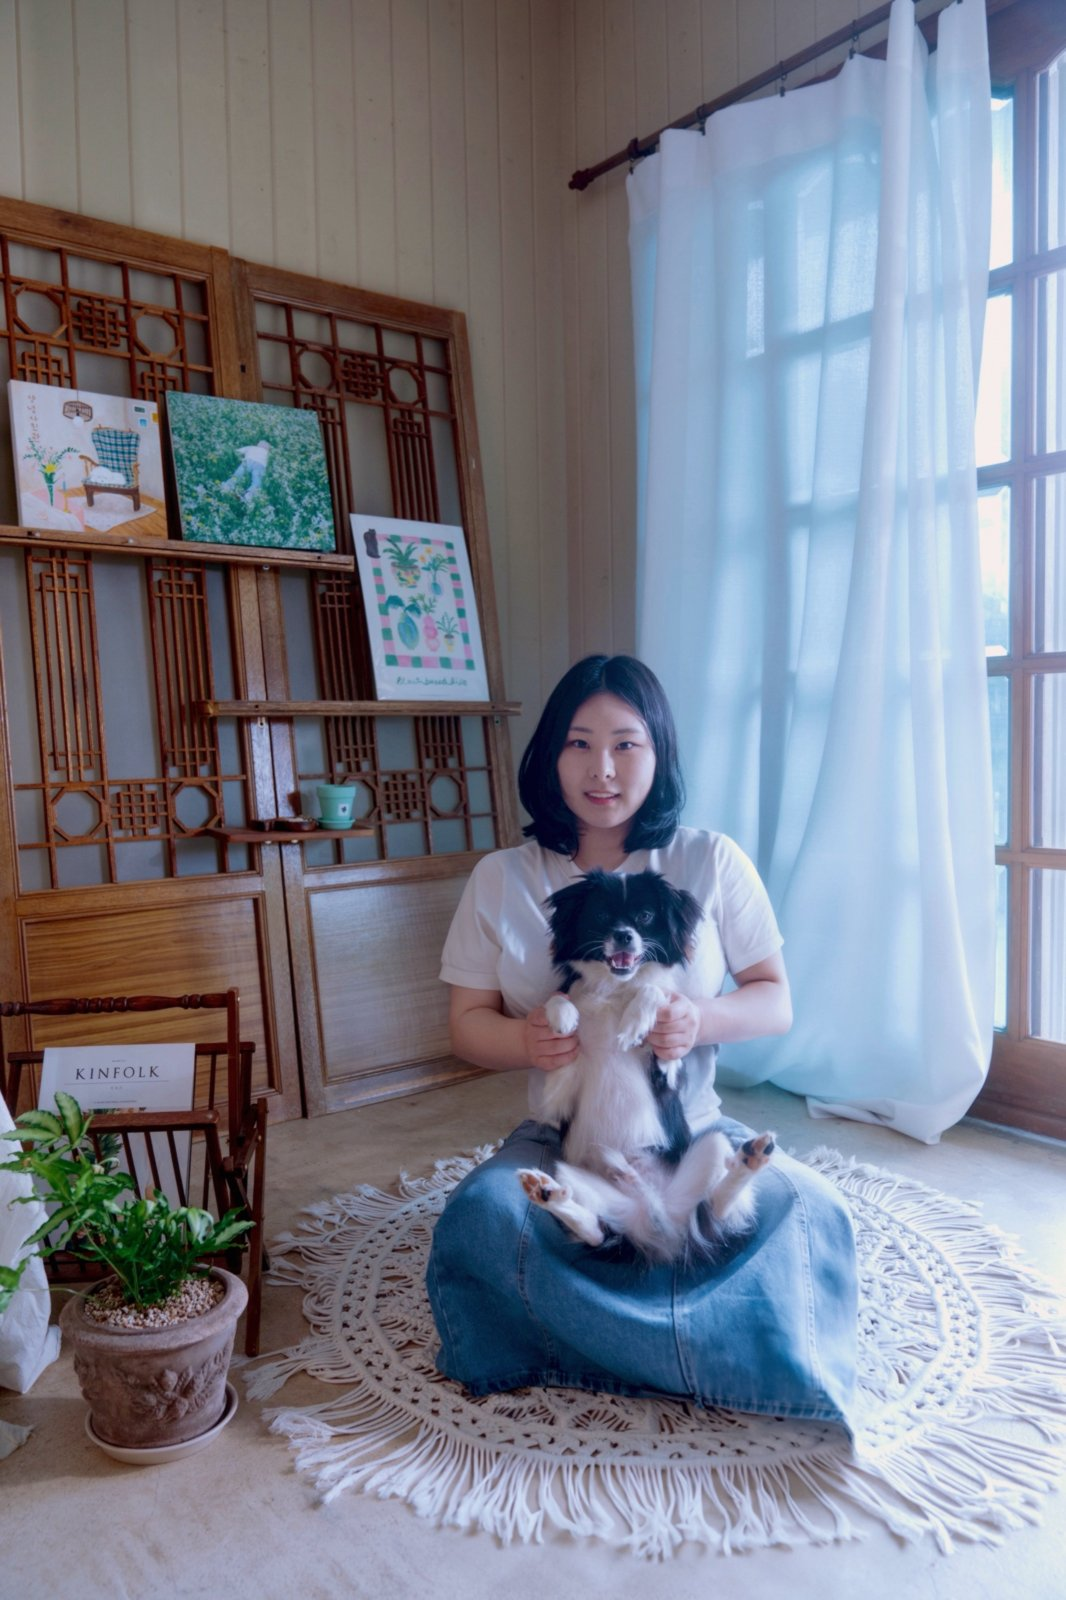
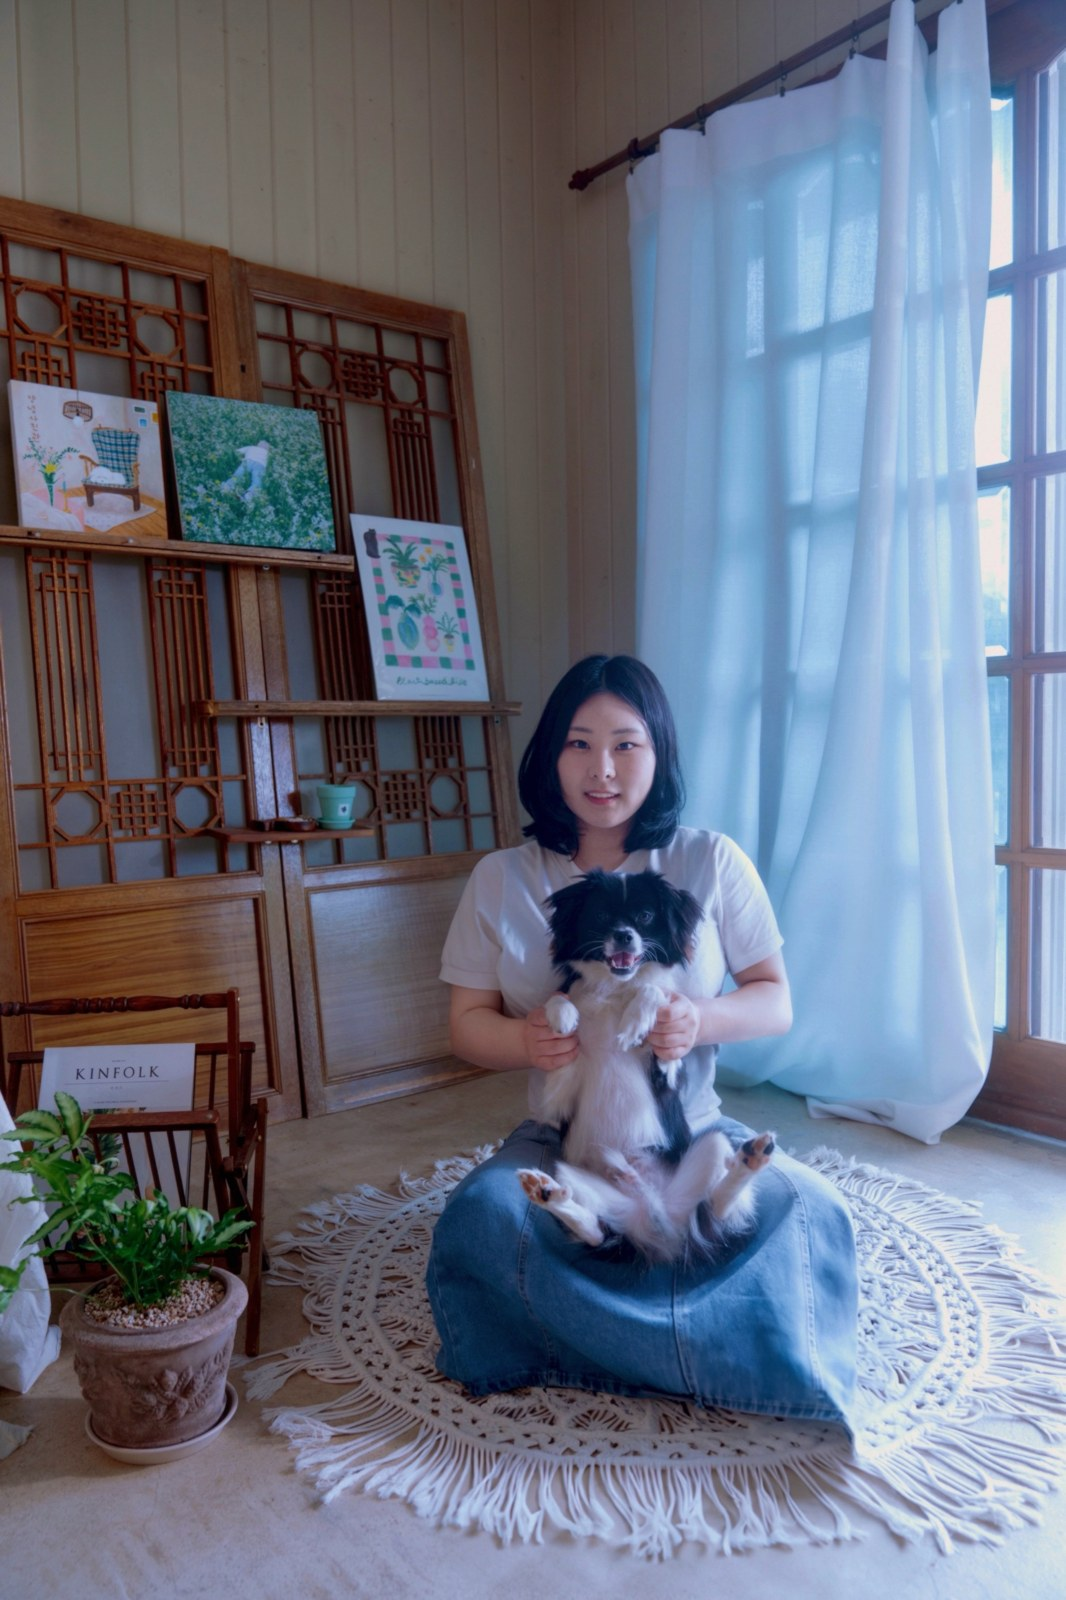
프로필 사진 보정본으로 교체
Claude-Session: https://claude.ai/code/session_01F7tKYgLVpzjPdrtESAum4i

diff --git a/about.html b/about.html
@@ -21,7 +21,7 @@
 <div class="dhead"><p class="kick">ABOUT</p><h1>소개</h1></div>
 <section class="sec"><div class="dbody" style="padding:0">
   <div class="prose"><p class="about-lead">새로운 감각을 만드는 일에 끌립니다.</p><p>어릴 때는 없던 식감을 만들어 보는 요리가 좋았고, 그다음엔 가상현실에서 감각을 설계하는 일을 하고 싶었습니다. 가상 공간을 제대로 만들려고 제도와 CAD를 배웠고, 옷과 머리카락이 어떻게 움직이는지 궁금해서 의류학과 색채학을 공부했고, 감각을 더 이해하려고 뇌과학 수업도 들었습니다.</p><p>그 관심이 컴퓨터그래픽스와 물리 시뮬레이션으로 이어졌습니다. 감각을 물리적으로 계산할 수 있다는 게 좋았습니다. 지금은 영상 속 움직임을 3D로 읽어내고 다시 만들어내는 비전 연구까지 넓히고 있습니다.</p><p>앞으로는 공연과 전시, 문화유산처럼 사람들이 직접 보고 반응하는 콘텐츠를 가능하게 하는 기술을 만들고 싶습니다. 무대 위의 사람이 아니라, 그 무대를 가능하게 하는 기술을 만드는 사람이 되고 싶습니다.</p><p style="color:var(--mute);font-size:15px">초등학생 때 교육청 영재원에서 LED 큐브와 비접촉 센서 피아노를 만들었고, 중학생 때는 지구과학 영재원에서 남원 지역 암석을 분석한 연구를 1저자로 대한지질학회에서 발표해 상을 받았습니다. 무언가를 직접 만들어 보는 버릇은 그때부터였습니다.</p></div>
-  <div><figure class="profile" data-profile><img src="images/profile.jpg?v=942330d9" alt="김주란 프로필 사진" onerror="this.outerHTML='<div class=&quot;ph&quot;><span>프로필 사진</span></div>'"></figure>
+  <div><figure class="profile" data-profile><img src="images/profile.jpg?v=5efad83c" alt="김주란 프로필 사진" onerror="this.outerHTML='<div class=&quot;ph&quot;><span>프로필 사진</span></div>'"></figure>
   <dl class="meta"><dt>관심 분야</dt><dd>Visual Computing — 비전·그래픽스·물리의 접점</dd><dd>Computer Vision — 단안 영상 기반 3D·4D 복원, 자세 추정</dd><dd>Computer Graphics — 물리 기반 시뮬레이션, 캐릭터 애니메이션</dd><dd>Generative Models — 영상·3D 생성, 월드 모델</dd><dd>Human/Animal Motion — 모션 캡처 없는 동작 이해와 생성</dd><dd>XR &amp; Interactive Media — 공연·전시를 위한 실시간 인터랙션</dd></dl></div>
 </div></section>
 <section class="sec"><div class="sh"><h2>경력</h2></div><div class="tl"><span class="y">2026.08 – 현재</span><div><b>쿼레이트</b><br><span>1인 개발자 · CoSpace 공간 배치 시각화 도구 설계와 개발</span></div><span class="y">2025.08 – 2025.12</span><div><b>스윙크</b><br><span>개발팀 학부 인턴 · AI 트래킹, AI 학습 게임, 박물관·전시 프로그램</span></div><span class="y">2022.07 – 현재</span><div><b>가톨릭대 CUCG Lab</b><br><span>학부연구생 · AI 그래픽스, XR, 시뮬레이션</span></div></div></section>
